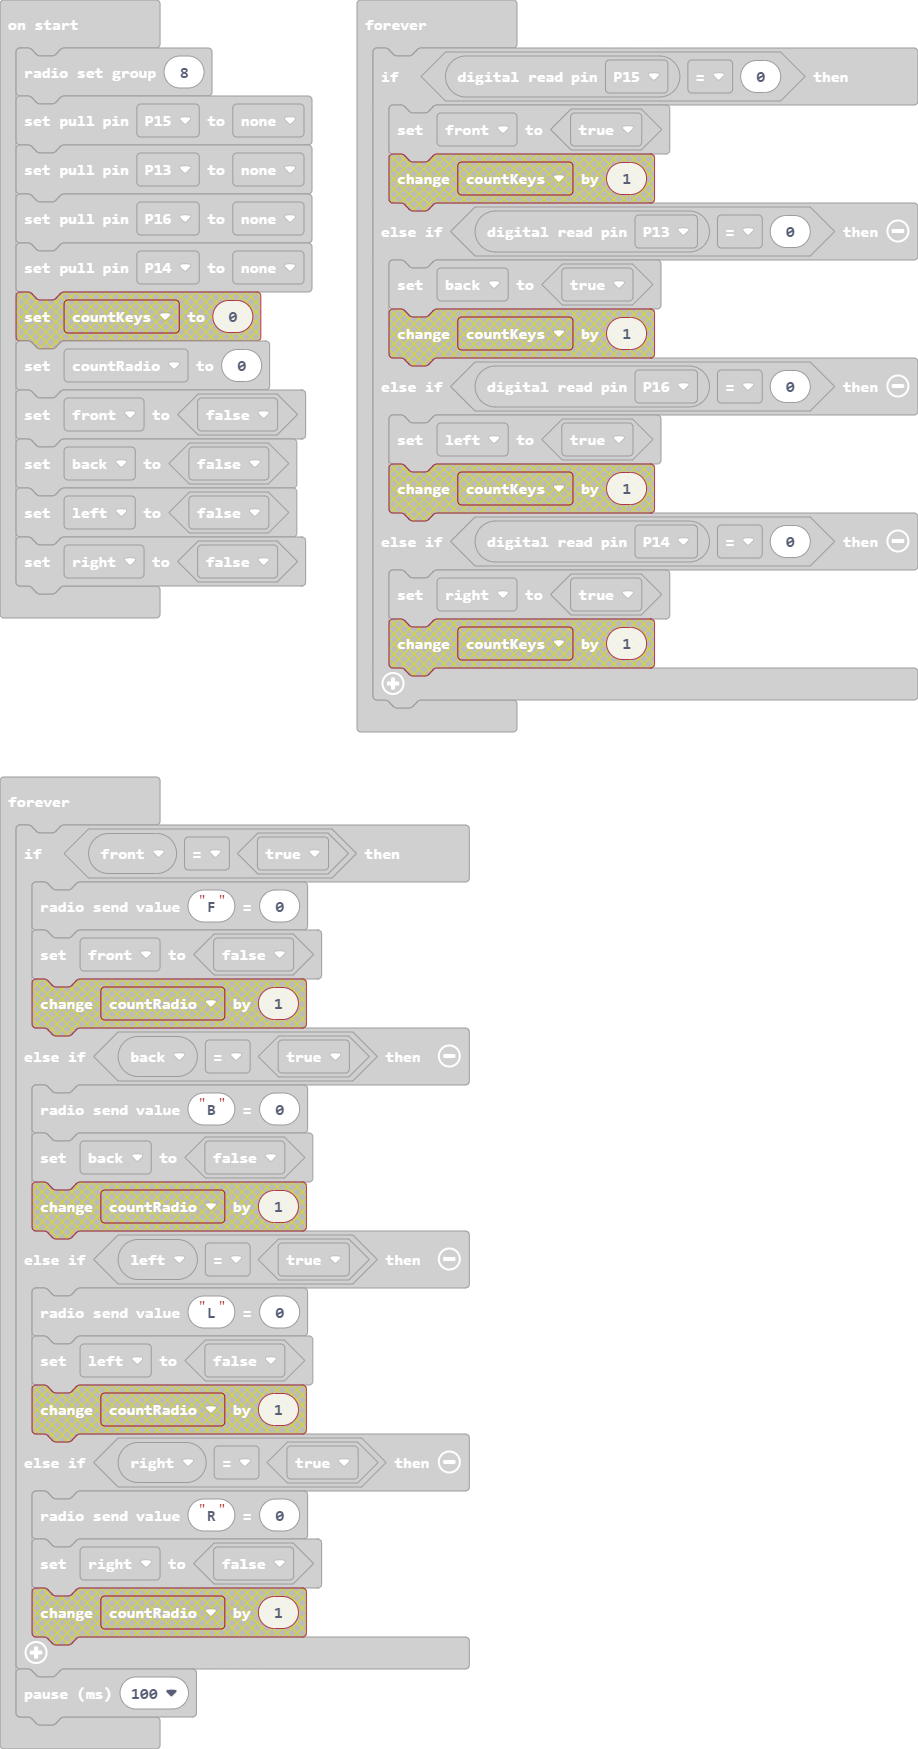
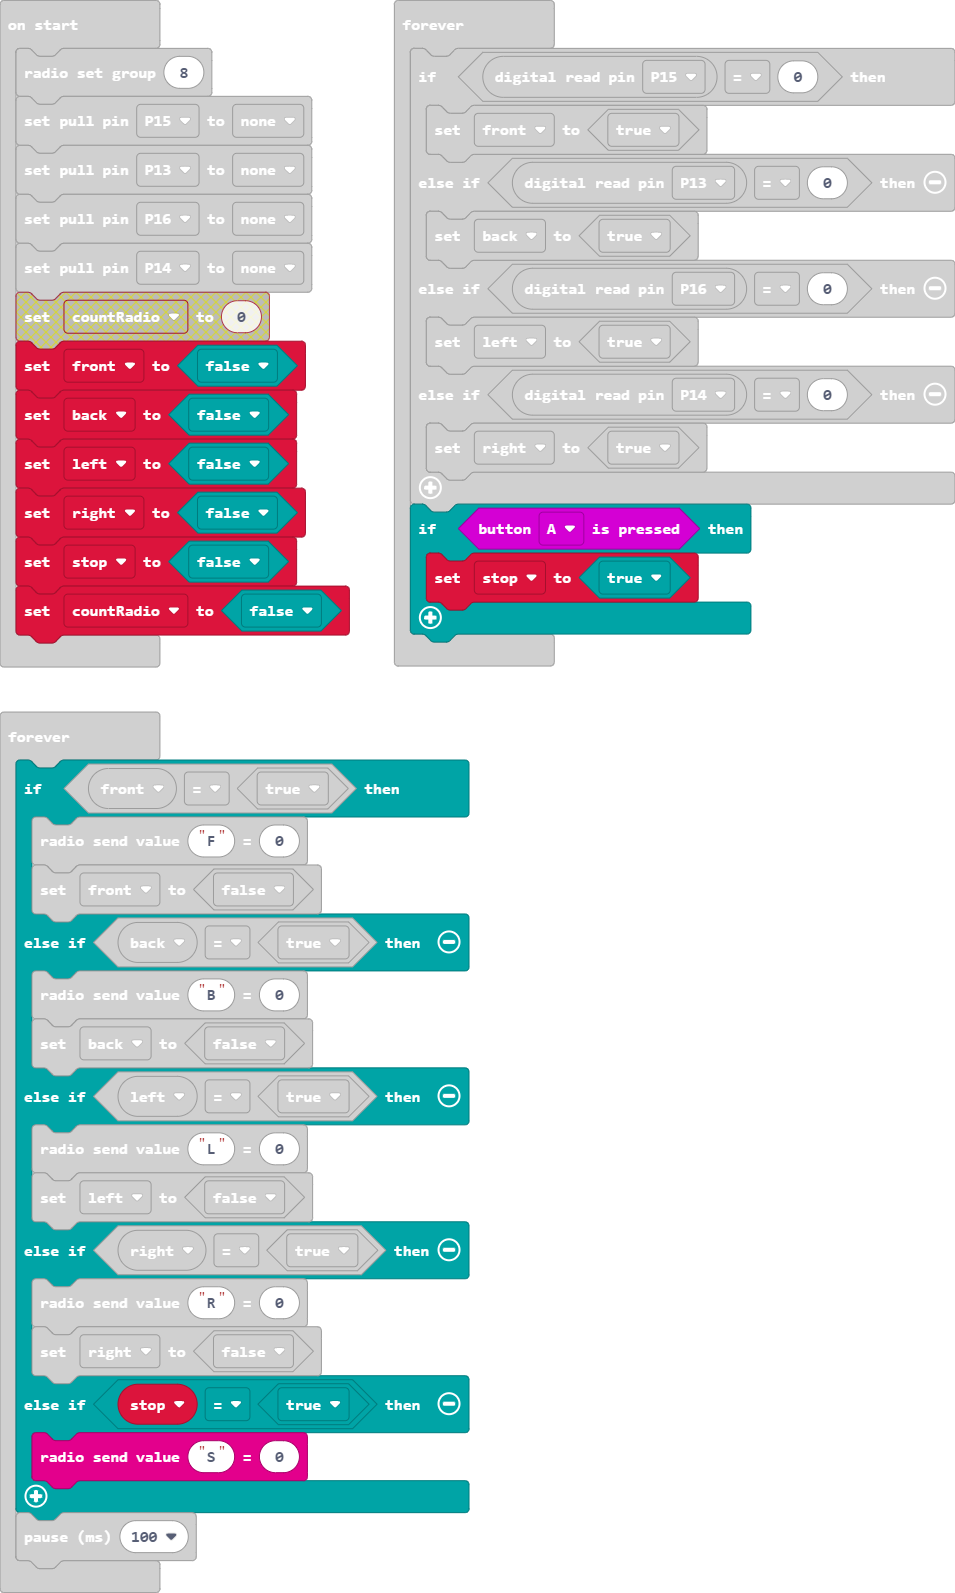
Update main.blocks, main.ts

diff --git a/main.ts b/main.ts
@@ -3,7 +3,8 @@ pins.setPull(DigitalPin.P15, PinPullMode.PullNone)
 pins.setPull(DigitalPin.P13, PinPullMode.PullNone)
 pins.setPull(DigitalPin.P16, PinPullMode.PullNone)
 pins.setPull(DigitalPin.P14, PinPullMode.PullNone)
-let countRadio = 0
+let stop = false
+let countRadio = false
 let front = false
 let back = false
 let left = false
@@ -17,6 +18,9 @@ basic.forever(function () {
         left = true
     } else if (pins.digitalReadPin(DigitalPin.P14) == 0) {
         right = true
+    }
+    if (input.buttonIsPressed(Button.A)) {
+        stop = true
     }
 })
 basic.forever(function () {
@@ -32,6 +36,8 @@ basic.forever(function () {
     } else if (right == true) {
         radio.sendValue("R", 0)
         right = false
+    } else if (stop == true) {
+        radio.sendValue("S", 0)
     }
     basic.pause(100)
 })
